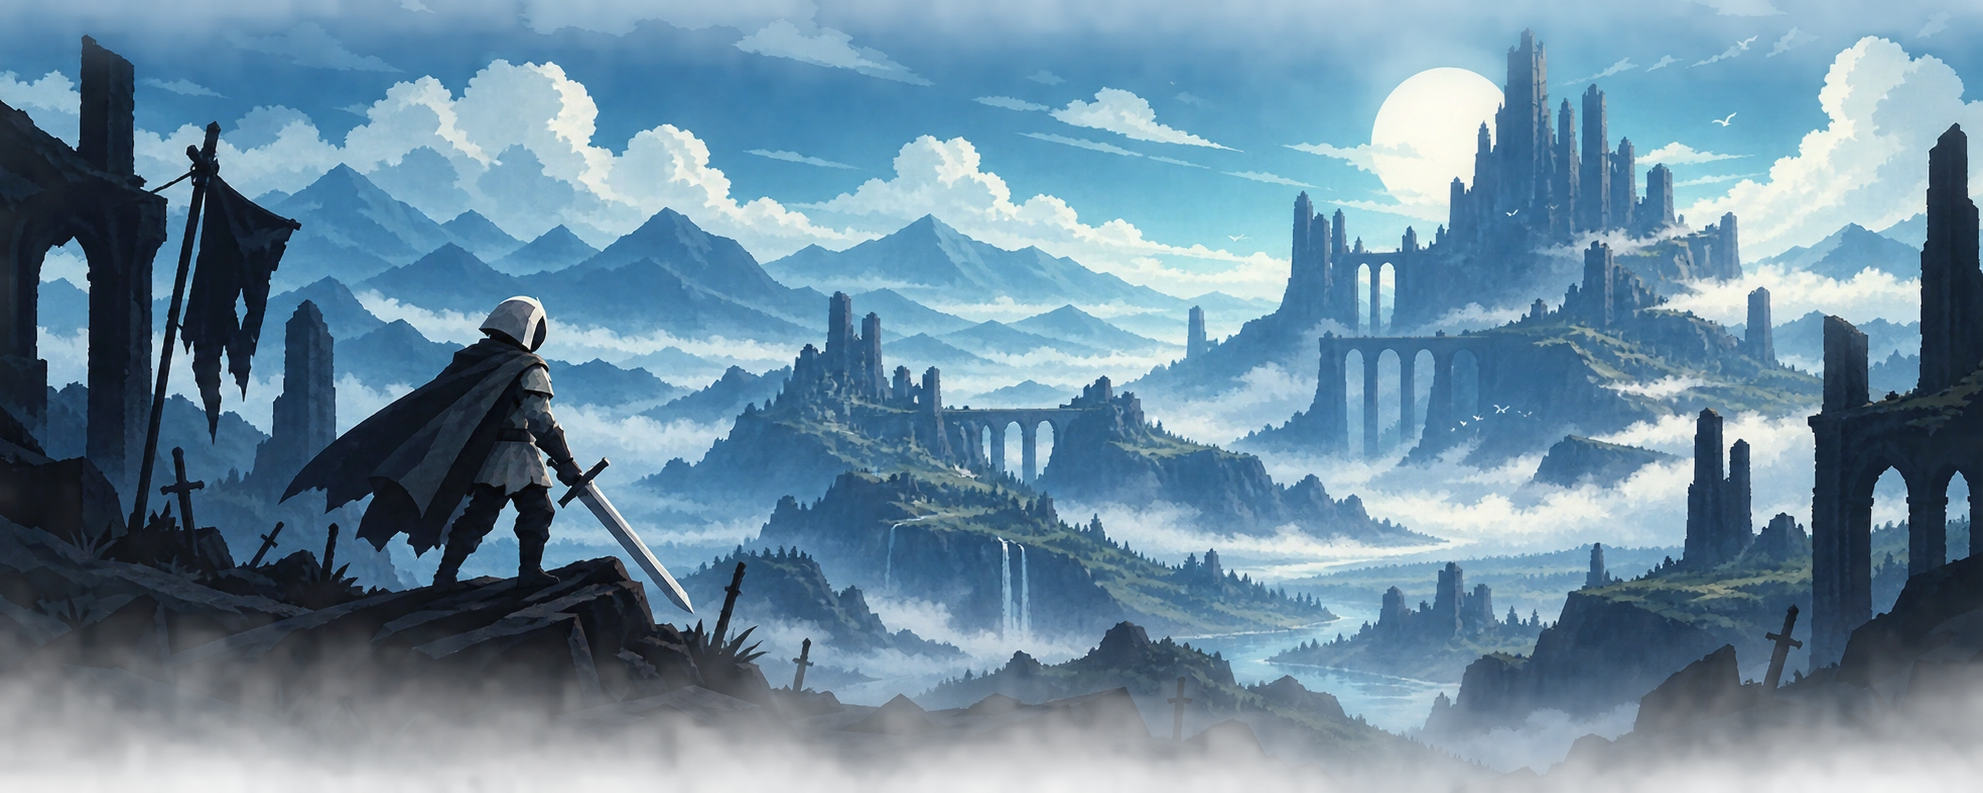
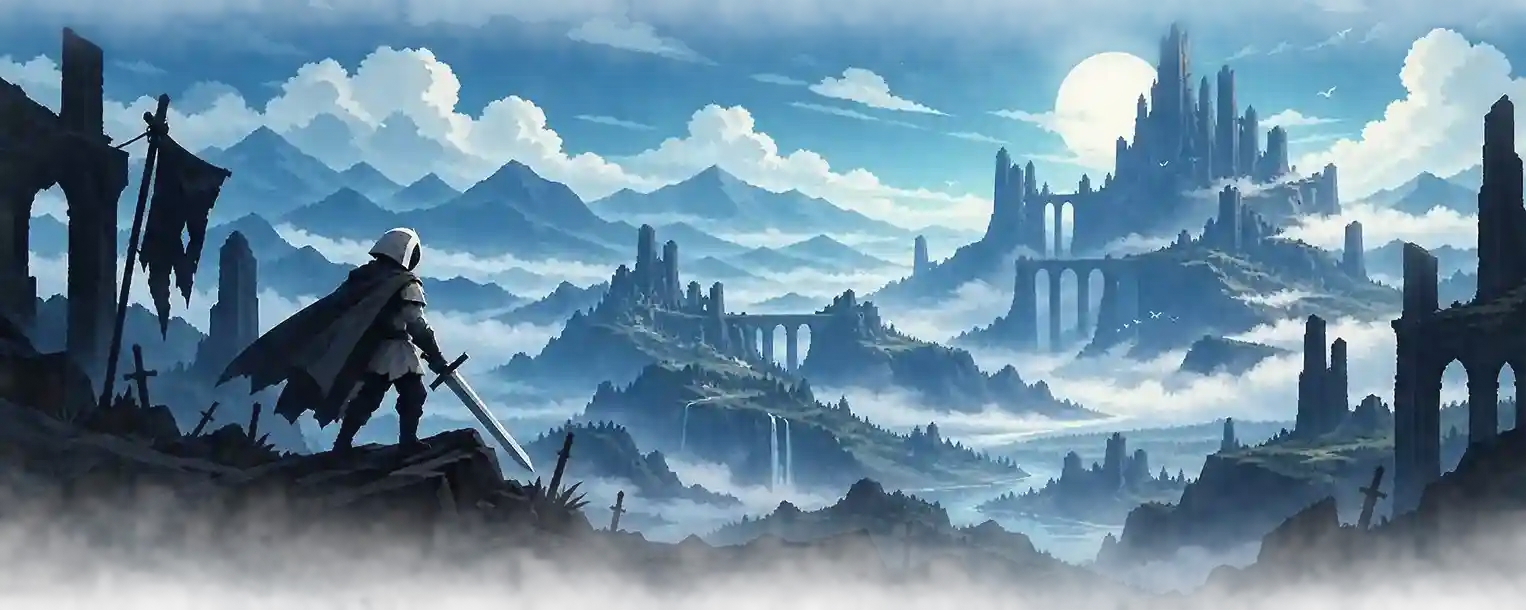
Оптимізовано банер в hero-секції відповідно до зауваження, прибрано alt з декоративних іконок, відповідно до зауваження, видалено проміжні варіанти зображень з репо

diff --git a/hw-05/index.html b/hw-05/index.html
@@ -48,12 +48,7 @@
         <ol>
           <li>
             Легкий виклик
-            <img
-              src="images/easy_diff.webp"
-              alt="Легкий виклик"
-              width="32"
-              height="32"
-            />
+            <img src="images/easy_diff.webp" alt="" width="32" height="32" />
             <ol>
               <li>Mortal Shell</li>
               <li>Mortal Shell 2</li>
@@ -62,12 +57,7 @@
           </li>
           <li>
             Середній виклик
-            <img
-              src="images/medium_diff.webp"
-              alt="Середній виклик"
-              width="32"
-              height="32"
-            />
+            <img src="images/medium_diff.webp" alt="" width="32" height="32" />
             <ol>
               <li>The Surge</li>
               <li>The Surge 2</li>
@@ -76,12 +66,7 @@
           </li>
           <li>
             Складний виклик
-            <img
-              src="images/hard_diff_orange.webp"
-              alt="Складний виклик"
-              width="32"
-              height="32"
-            />
+            <img src="images/hard_diff.webp" alt="" width="32" height="32" />
             <ol>
               <li>Dark Souls</li>
               <li>Dark Souls 2</li>
@@ -91,8 +76,8 @@
           <li>
             Екстремальний виклик
             <img
-              src="images/hardcore_diff_fixed.webp"
-              alt="Екстремальний виклик"
+              src="images/hardcore_diff.webp"
+              alt=""
               width="32"
               height="32"
             />
